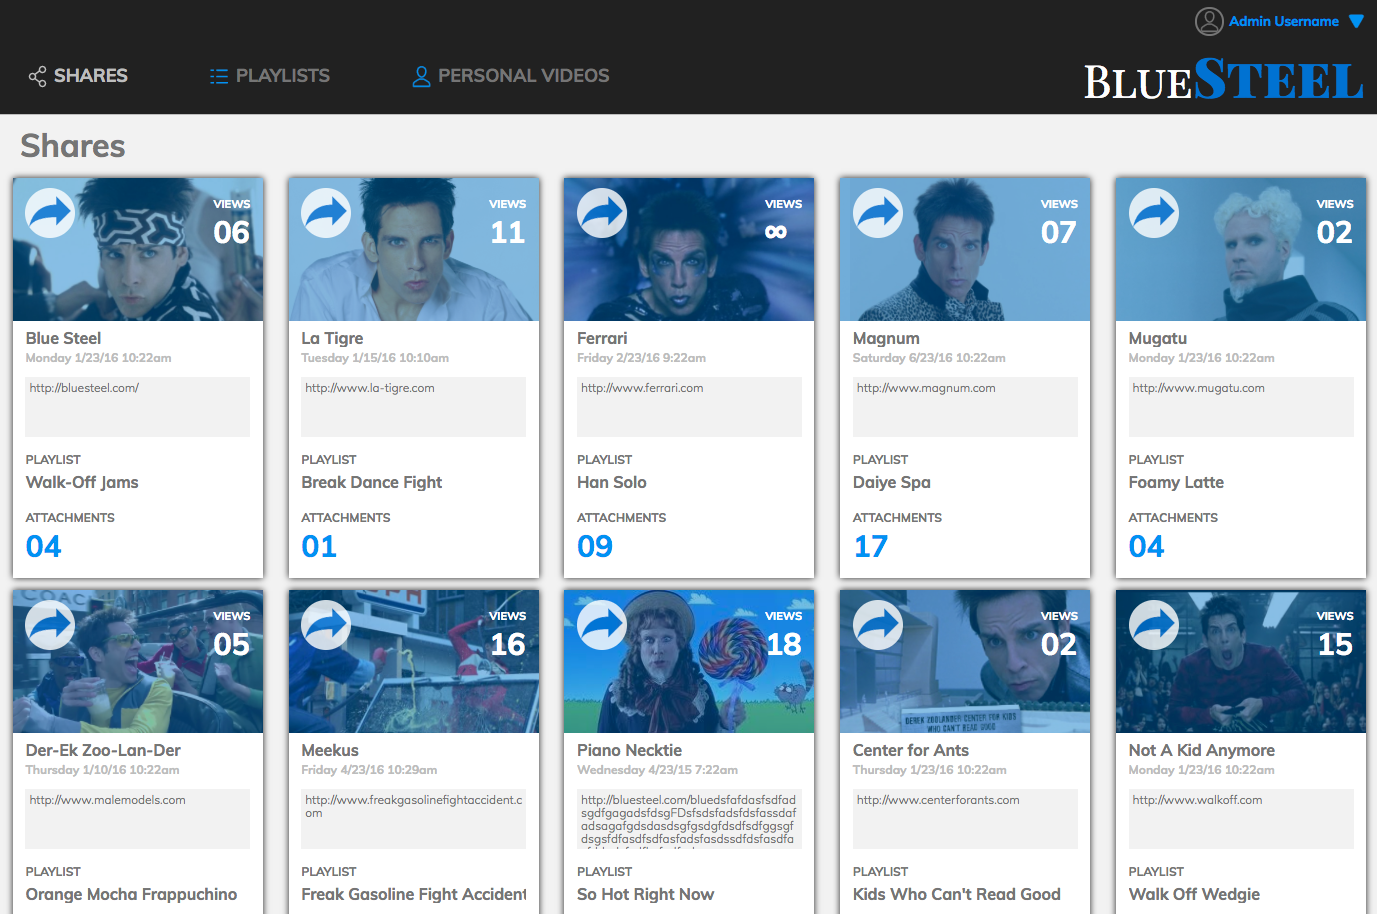
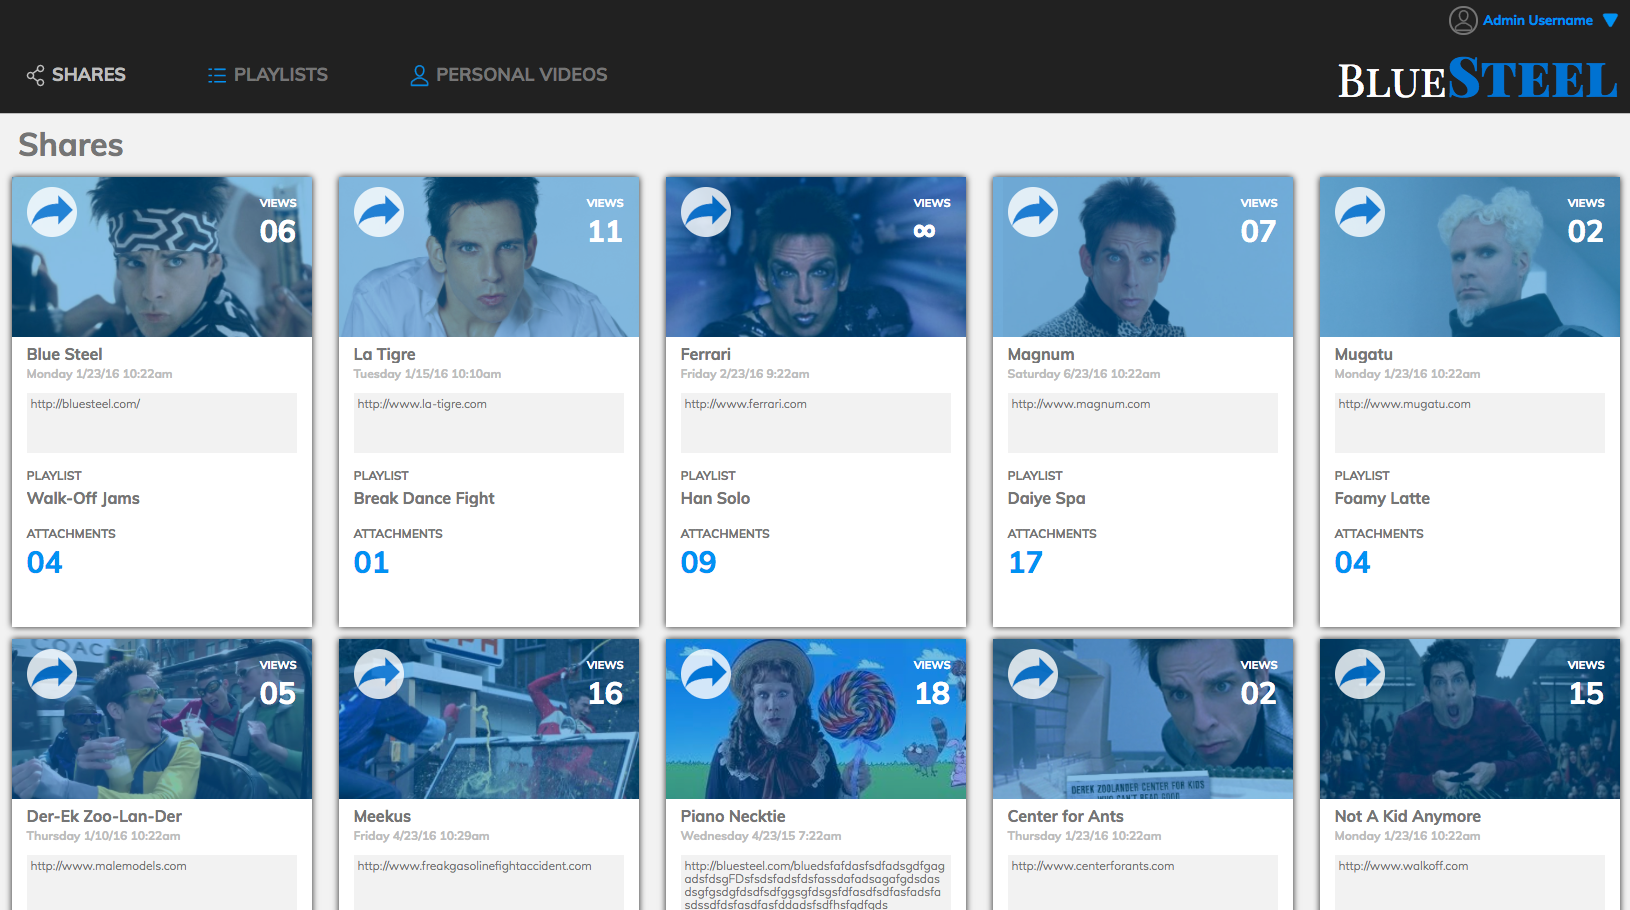
updated images

diff --git a/main.css b/main.css
@@ -341,6 +341,11 @@ h5 {
   #shares, #playlists, #pers-vids {
     margin: 0 53px 0 0;
   }
+
+  .card {
+    width: 300px;
+    height: 450px;
+  }
 }
 
 @media screen and (min-width: 1250px) {
